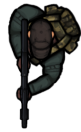
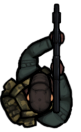
start

diff --git a/main.py b/main.py
@@ -1,7 +1,9 @@
+# import libraries
 import pygame
 import os
 import time
 import random
+# import fonts
 pygame.font.init()
 
 # define window size
@@ -9,7 +11,7 @@ WIDTH, HEIGHT = 750, 750
 
 
 WIN = pygame.display.set_mode((WIDTH, HEIGHT))
-pygame.display.set_caption("Zombie defence simulator")
+pygame.display.set_caption("Defence simulator")
 
 
 # import player image
@@ -17,6 +19,7 @@ PLAYER = pygame.image.load(os.path.join("assets", "player.png"))
 
 # import enemy image
 ENEMY = pygame.image.load(os.path.join("assets", "enemy.png"))
+ENEMY2 = pygame.image.load(os.path.join("assets", "enemy2.png"))
 
 # import backgorund image
 BG = pygame.transform.scale(pygame.image.load(os.path.join("assets", "background.png")), (WIDTH, HEIGHT))
@@ -24,9 +27,10 @@ BG = pygame.transform.scale(pygame.image.load(os.path.join("assets", "background
 # import bullet image
 BULLET = pygame.image.load(os.path.join("assets", "bullet.png"))
 ENBULLET = pygame.image.load(os.path.join("assets", "enemybullet.png"))
+EN2BULLET = pygame.image.load(os.path.join("assets", "enemy2bullet.png"))
 
 
-class Player:
+class player: # define base class
     def __init__(self, x, y, health=100):
         self.x = x
         self.y = y
@@ -36,20 +40,57 @@ class Player:
         self.cool_down_counter = 0
 
     def draw(self, window):
-        pygame.draw.rect(window, (255,0,0), (self.x, self.y, 50, 50))
+        window.blit(self.player_img, (self.x, self.y))
+    def get_width(self):
+        return self.player_img.get_width()
+
+    def get_height(self):
+        return self.player_img.get_height()
+
+class Player(player): # define player class
+    def __init__(self, x, y, health=100):
+        super().__init__(x, y, health)
+        self.player_img = PLAYER
+        self.bullet_img = BULLET
+        self.mask = pygame.mask.from_surface(self.player_img)
+        self.max_health = health
+
+class Enemy(player): # define enemy class
+    SELECTOR_MAP = {
+                    "one": (ENEMY, ENBULLET),
+                    "two": (ENEMY2, EN2BULLET)
+                    }
+    def __init__(self, x, y, health=100):
+        super().__init__(x, y, health)
+        self.player_img = ENEMY
+        self.bullet_img = ENBULLET
+        self.mask = pygame.mask.from_surface(self.player_img)
+
+
+    def move(self, vel):
+        self.y += vel
 
 
 # main game loop
 def main():
     run = True
     FPS = 60
-    level = 1
+    level = 0
     lives = 5
     main_font = pygame.font.SysFont("chiller", 50)
 
-    player = Player(300, 650)
+    enemies = []
+    wave_length = 5
+    enemy_vel = 1
+
+
+    player_vel = 5
+
+    player = Player(300, 500)
 
     clock = pygame.time.Clock()
+
+    lost = False
 
     def redraw_window():
         WIN.blit(BG, (0,0))
@@ -62,16 +103,46 @@ def main():
         WIN.blit(Lives_UI, (10, 10))
         WIN.blit(Level_UI, (WIDTH - Level_UI.get_width() - 10, 10))
 
+        for enemy in enemies:
+            enemy.draw(WIN)
+
         player.draw(WIN)
 
 
+
         pygame.display.update()
+
+
     while run:
         clock.tick(FPS)
-        redraw_window()
+
+        if lives <= 0 or player.health <= 0:
+            lost = True
+
+        if len(enemies)== 0:
+            level += 1
+            wave_length += 5
+            for i in range(wave_length):
+                enemy = Enemy(random.randrange(50, WIDTH-100), random.randrange(-1500, -100), random.choice(["one", "two"]))
+                enemies.append(enemy)
+
 
         for event in pygame.event.get():
             if event.type == pygame.QUIT:
                 run = False
+        keys = pygame.key.get_pressed()
+        if keys[pygame.K_a] and player.x - player_vel > 0: # left
+            player.x -= player_vel
+        if keys[pygame.K_d] and player.x + player_vel + player.get_width() < WIDTH: # right
+            player.x += player_vel
+
+        for enemy in enemies[:]:
+            enemy.move(enemy_vel)
+            if enemy.y + enemy.get_height() > HEIGHT:
+                lives -= 1
+                enemies.remove(enemy)
+
+        redraw_window()
+
 
 main()
